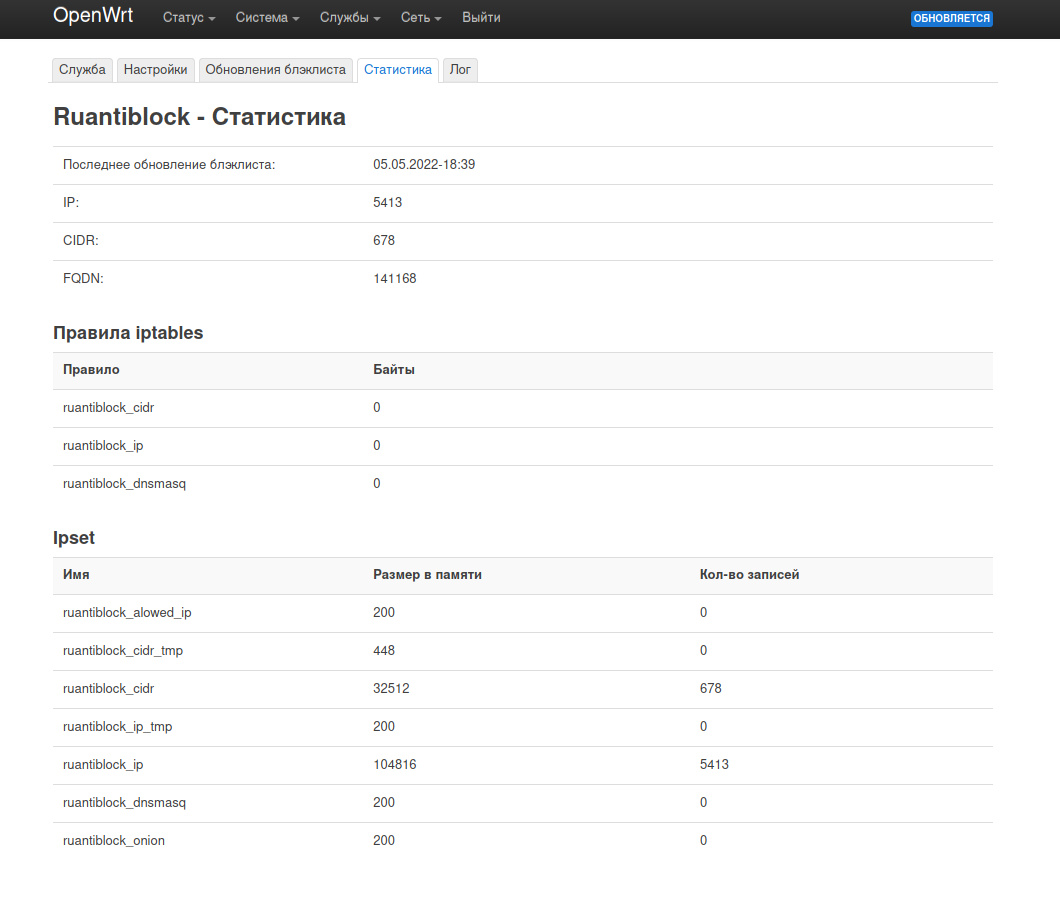
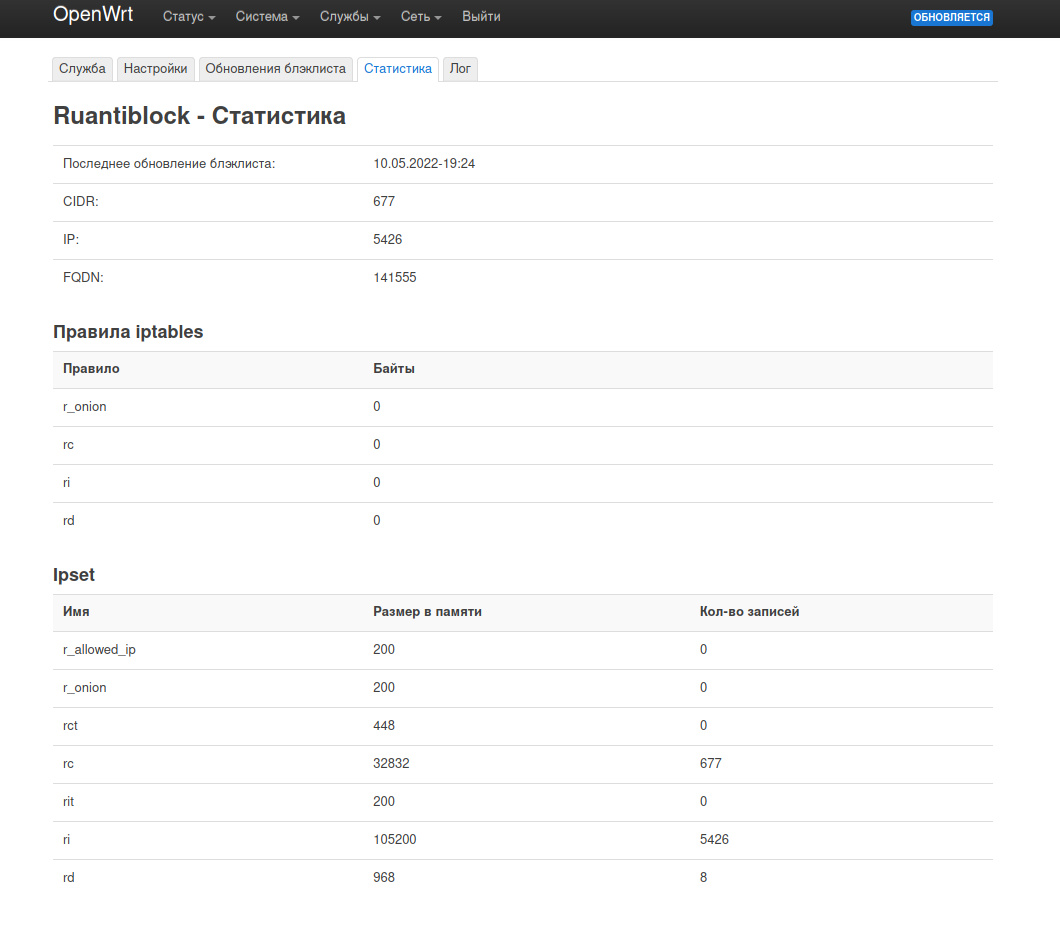
v0.9.4. Short names for ipsets

diff --git a/luci-app-ruantiblock/htdocs/luci-static/resources/view/ruantiblock/info.js b/luci-app-ruantiblock/htdocs/luci-static/resources/view/ruantiblock/info.js
@@ -114,16 +114,16 @@ return view.extend({
 								data.last_blacklist_update.date),
 						]),
 						E('tr', { 'class': 'tr' }, [
-							E('td', { 'class': 'td left' }, 'IP:'),
-							E('td', { 'class': 'td left',
-										'id': 'last_blacklist_update.ip' },
-								data.last_blacklist_update.ip),
-						]),
-						E('tr', { 'class': 'tr' }, [
 							E('td', { 'class': 'td left' }, 'CIDR:'),
 							E('td', { 'class': 'td left',
 										'id': 'last_blacklist_update.cidr' },
 								data.last_blacklist_update.cidr),
+						]),
+						E('tr', { 'class': 'tr' }, [
+							E('td', { 'class': 'td left' }, 'IP:'),
+							E('td', { 'class': 'td left',
+										'id': 'last_blacklist_update.ip' },
+								data.last_blacklist_update.ip),
 						]),
 						E('tr', { 'class': 'tr' }, [
 							E('td', { 'class': 'td left' }, 'FQDN:'),

diff --git a/ruantiblock-mod-py/files/usr/libexec/ruantiblock/ruab_parser.py b/ruantiblock-mod-py/files/usr/libexec/ruantiblock/ruab_parser.py
@@ -503,7 +503,7 @@ class WriteConfigFiles(Config):
     def write_update_status_file(self, ip_count, cidr_count, output_fqdn_count):
         with open(self.UPDATE_STATUS_FILE, "wt") as file_handler:
             file_handler.write(
-                f"{ip_count} {cidr_count} {output_fqdn_count}")
+                f"{cidr_count} {ip_count} {output_fqdn_count}")
 
 
 if __name__ == "__main__":
